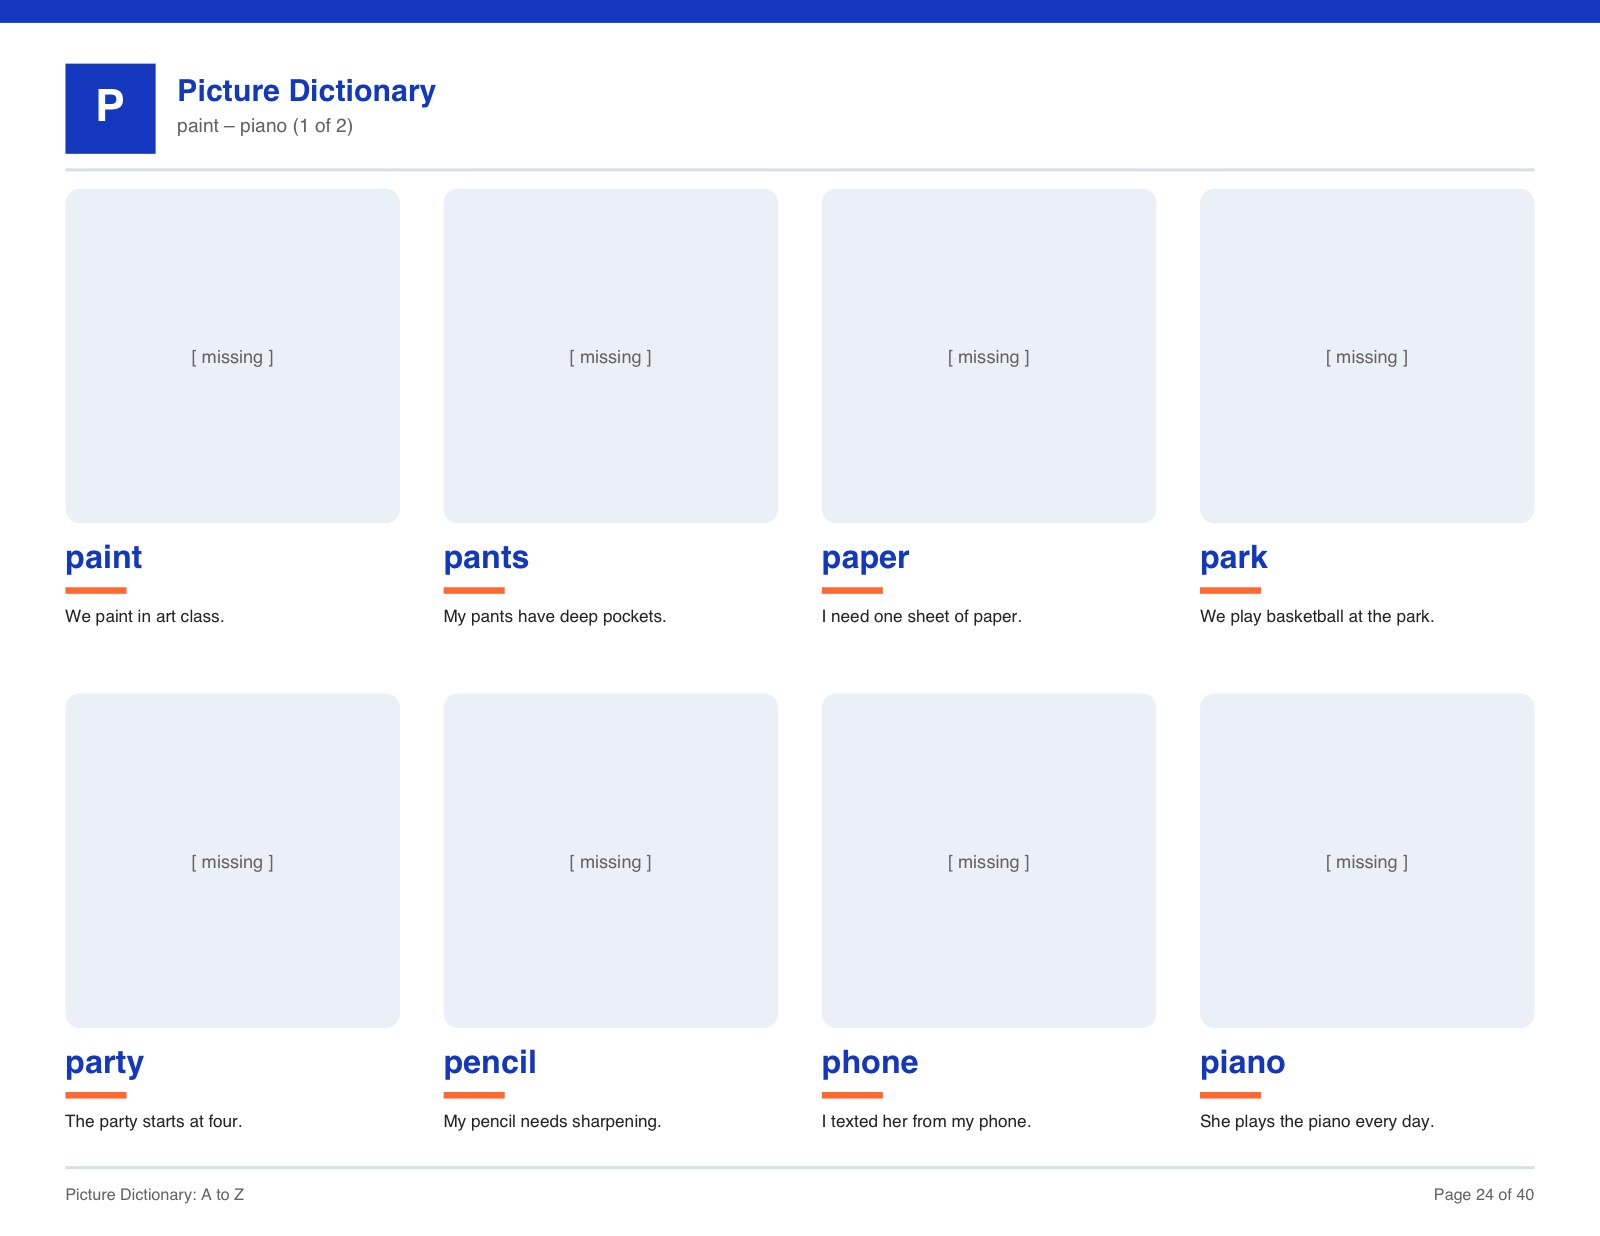
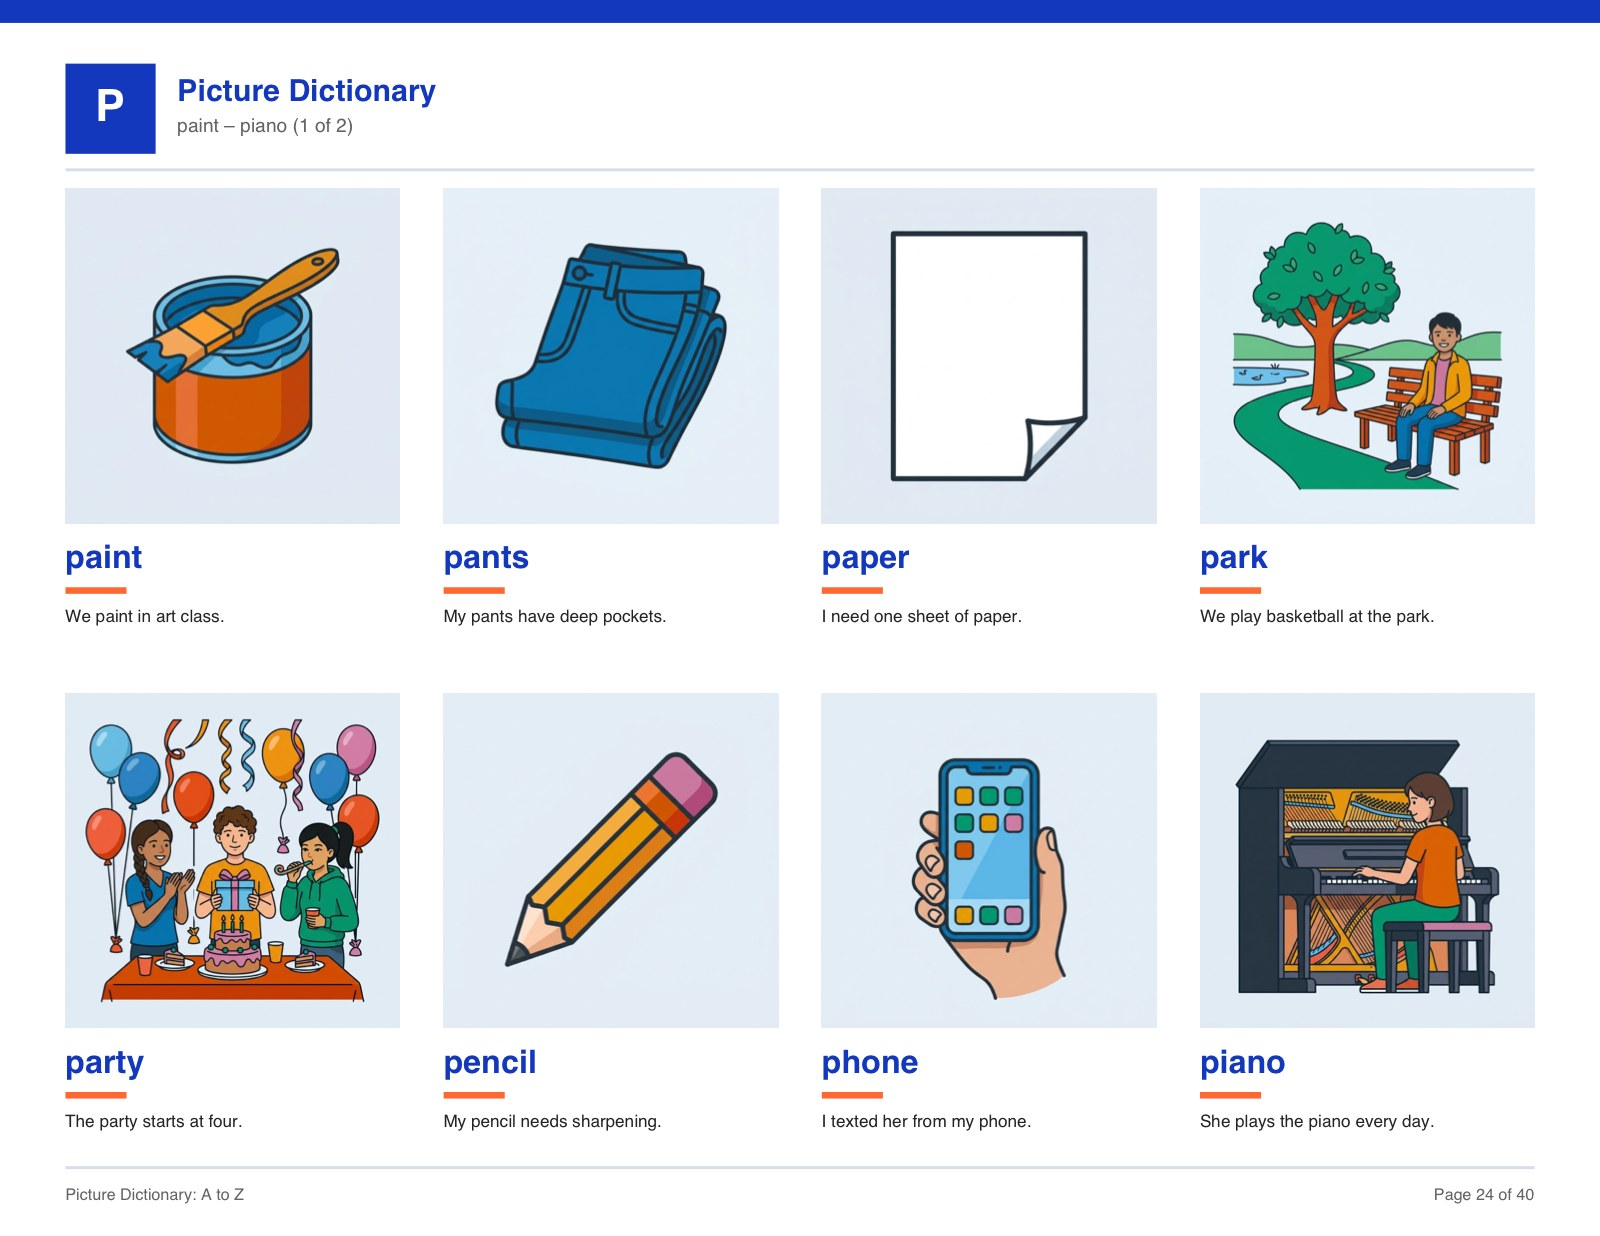
Complete all 255 illustrations, A-Z

diff --git a/prompts/scenes.py b/prompts/scenes.py
@@ -181,9 +181,14 @@ SCENES = {
     "mother": "a smiling adult woman standing with her arm around a teenager",
     "mountain": "a tall mountain with a snow-capped peak",
     "mouse": "a small grey mouse with a long tail",
-    "mouth": "a close view of an open smiling mouth showing teeth",
+    # `face`, `mouth` and `nose` all came back as the same head-and-shoulders
+    # portrait. Body-part words need the crop stated outright, or the model
+    # defaults to drawing the whole person.
+    "mouth": "an extreme close-up of only the lower part of a face, filling the whole frame: lips open in a smile showing the teeth, chin below, no eyes and no hair in view",
     "movie": "a cinema screen showing a bright picture, two seats in front seen from behind",
-    "mud": "a brown muddy puddle with a boot print pressed into it",
+    # Left as "brown", the restricted palette pushes this to bright orange and
+    # it stops reading as mud. Name the dark brown explicitly.
+    "mud": "a puddle of thick dark chocolate-brown mud on the ground with a deep boot print pressed into it",
     "music": "musical notes floating above a guitar and a drum",
     # N
     "name": "a teenager smiling and pointing at a rectangular name tag on their shirt reading MAYA",
@@ -191,11 +196,12 @@ SCENES = {
     "neighbor": "two people waving to each other over a garden fence",
     "nest": "a round bird nest with three pale eggs in it, on a branch",
     "night": "a dark night sky full of stars above a quiet house",
-    "nose": "a close view of a face showing the nose clearly",
+    "nose": "an extreme close-up of only the middle of a face in three-quarter view, filling the whole frame: the nose large and central with both nostrils clear, no whole head in view",
     "nurse": "a nurse in scrubs holding a clipboard",
     "nut": "a walnut and an acorn side by side",
     # O
-    "ocean": "blue ocean waves stretching to a distant horizon",
+    # Without this it draws a beach with people and duplicates `beach`.
+    "ocean": "open blue ocean water filling the frame with rolling waves and a flat empty horizon, no beach, no land and no people",
     "office": "an office with a desk, a chair and a computer",
     "orange": "a single orange fruit with one green leaf on top",
     "oven": "an oven with its door closed and the inside light glowing",
@@ -203,7 +209,9 @@ SCENES = {
     # P
     "paint": "a paintbrush resting across an open tin of blue paint",
     "pants": "a pair of blue jeans, neatly folded",
-    "paper": "a single blank sheet of paper with one corner curling",
+    # Unstated, the restricted palette colours plain objects orange. White has
+    # to be asked for by name.
+    "paper": "a single blank sheet of plain white paper, pure white with one corner curling",
     "park": "a park with a bench, a tree and a winding path",
     "party": "a party scene with balloons, streamers and a cake on a table",
     "pencil": "a single sharpened yellow pencil",
@@ -237,7 +245,9 @@ SCENES = {
     "rope": "a neatly coiled length of thick rope",
     # S
     "sandwich": "a sandwich cut in half showing cheese filling, on a plate",
-    "scared": "a teenager with wide eyes and both hands raised near their face, looking frightened",
+    # Raised open palms read as the ASL 5 handshape. Show the fear in the body
+    # and face instead of in the hands.
+    "scared": "a teenager shrinking backwards with shoulders hunched and both hands clasped tightly together at their chest, eyes wide and eyebrows raised in fright",
     "school": "a school building with a flag and steps up to the door",
     "science": "a science beaker of coloured liquid beside a microscope",
     "scissors": "a pair of open scissors",
@@ -248,10 +258,13 @@ SCENES = {
     "sing": "a teenager standing and singing with their mouth open, musical notes floating nearby",
     "sister": "two teenage sisters standing together, smiling",
     "skate": "a teenager ice skating on a frozen pond",
-    "sleep": "a teenager asleep in bed with three Z letters floating above",
+    # The floating Zs contradicted the no-letters rule in the same prompt.
+    "sleep": "a teenager asleep in bed under a blanket with eyes closed and head on the pillow, a crescent moon visible through the window",
     "slide": "a playground slide with a child sliding down it",
     "smell": "a teenager leaning toward a flower and smelling it, with wavy scent lines",
-    "smile": "a teenager's face with a wide open smile",
+    # A single smiling portrait is already `face`. Make this one about the act
+    # of smiling at someone.
+    "smile": "two teenage friends facing each other and grinning broadly, both smiles clearly visible",
     "soap": "a bar of soap with bubbles around it",
     "soccer": "a black and white soccer ball resting on grass",
     "spider": "a spider sitting on its web",
@@ -270,9 +283,12 @@ SCENES = {
     "table": "a wooden table with four legs",
     "tail": "a dog seen from behind with its tail raised",
     "teacher": "a teacher standing beside a whiteboard, facing the class",
-    "teeth": "a close view of a smile showing white teeth, with a toothbrush beside it",
+    # Would otherwise be the same crop as `mouth`. The action distinguishes it.
+    "teeth": "a teenager brushing their front teeth with a toothbrush, mouth open so the white teeth are the clear focus",
     "tiger": "an orange tiger with black stripes, standing side-on",
-    "time": "a wristwatch face showing a clear time",
+    # "showing a clear time" was vague enough that the text exception let a
+    # caption through. Name exactly which characters are allowed.
+    "time": "a close view of a wristwatch worn on a wrist, its round dial carrying the numerals 1 to 12 and the hands pointing to three o'clock, and no other writing anywhere",
     "tired": "a teenager yawning with drooping eyes, resting their head on one hand",
     "tissue": "a tissue box with one tissue pulled up out of it",
     "tongue": "a face with the tongue sticking out slightly",
@@ -290,7 +306,8 @@ SCENES = {
     "vegetable": "a carrot, a head of broccoli and a tomato grouped together",
     # W
     "wash": "a pair of hands under running water with soap suds",
-    "watch": "a wristwatch fastened on a wrist",
+    # `time` is already a watch on a wrist. Show this one as the object itself.
+    "watch": "a single wristwatch lying flat on a table seen from above, its strap unbuckled and stretched out straight, buckle clearly visible",
     "wave": "a large blue ocean wave curling over",
     "weather": "a bright sun beside a cloud with rain falling from it",
     "wet": "a teenager in a raincoat with water dripping off them",
@@ -299,14 +316,16 @@ SCENES = {
     "witch": "a friendly witch in a pointed hat riding a broom",
     "woman": "an adult woman standing and smiling",
     "wood": "a stack of cut logs",
-    "work": "an adult sitting at a desk working on a computer",
+    # A desk and a computer is already `office`.
+    "work": "an adult in a tool belt working at a workbench with both hands, concentrating on the job",
     "write": "a hand writing on a sheet of paper with a pencil",
     # X
     "x-ray": "an x-ray image of a hand showing the bones",
     "xylophone": "a colourful xylophone with two mallets resting on it",
     # Y
     "yard": "a house yard with grass, a tree and a rake leaning against the fence",
-    "yawn": "a teenager yawning widely with one hand near their mouth",
+    # `tired` is already a yawn with a hand at the mouth. The stretch separates them.
+    "yawn": "a teenager yawning wide with both arms stretched straight up above their head in a big morning stretch",
     "yellow": "a lemon, a banana and a yellow flower grouped together, all clearly yellow",
     "young": "a small child standing next to a teenager, showing the difference in age",
     # Z
